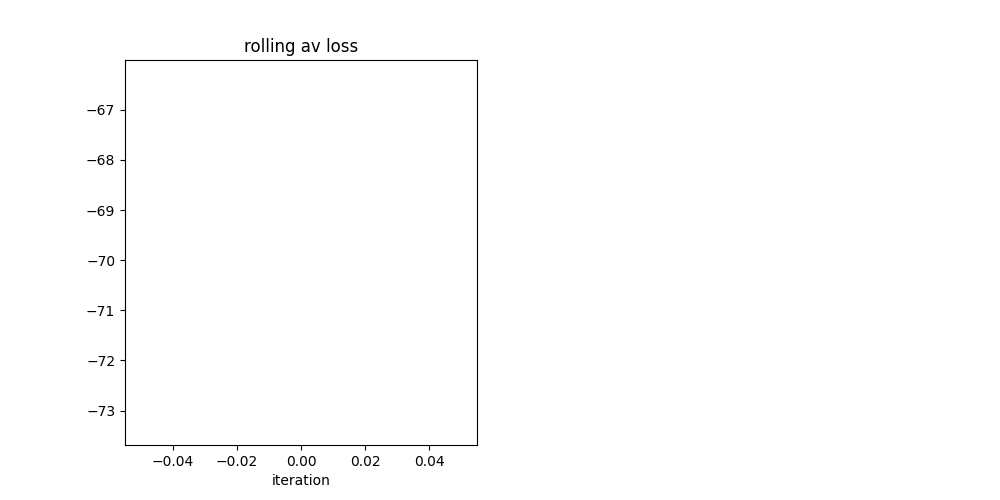
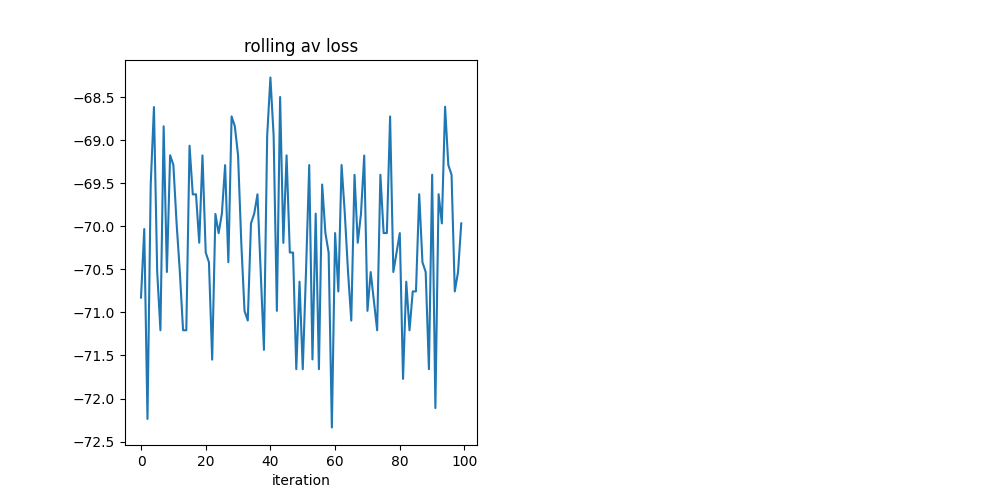
REINFORCE w Leela encodings

diff --git a/src/train_rl/utils/rl_trainers.py b/src/train_rl/utils/rl_trainers.py
@@ -18,7 +18,8 @@ from torchrl.envs.utils import step_mdp
 
 from src.models.decision_transformer.modeling_decision_transformer import DecisionTransformerModel
 from src.train_rl.utils.rl_trainer_config import RLTrainerConfig
-from src.utils import translate
+from src.utils import leela_encodings
+from src.utils.leela_constants import ACT_DIM, STATE_DIM
 
 
 class DecisionTransformerREINFORCETrainer:
@@ -164,6 +165,7 @@ class DecisionTransformerREINFORCETrainer:
 
             if self.cfg.lr_scheduler:
                 scheduler.step()
+
         self.env.engine.quit()
         self.env.stockfish_metric.engine.quit()
         self.log(logs)
@@ -188,8 +190,10 @@ class DecisionTransformerREINFORCETrainer:
         action_distros = []
         for t in count():
             if t > 0:
-                state_seq = torch.cat([data["board"][0].unsqueeze(0), data["next"]["board"]], dim=0).unsqueeze(
-                    0
+                state_seq = torch.flatten(
+                    torch.cat([data["board"][0].unsqueeze(0), data["next"]["board"]], dim=0).unsqueeze(0),
+                    start_dim=2,
+                    end_dim=-1,
                 )  # needs dtype = float32 & shape = (1, seq_len, cfg.state_dim)
                 action_seq = torch.cat([data["action"], unused_action], dim=0).unsqueeze(
                     0
@@ -199,7 +203,9 @@ class DecisionTransformerREINFORCETrainer:
                 )  # needs dtype = float32 & shape = (1, seq_len, 1)
                 timestep_seq = torch.arange(t + 1).unsqueeze(0)  # needs dtype = int64 & shape = (1,t)
             else:
-                state_seq = data["board"].unsqueeze(0)  # dtype = float32 & shape = (1, 1, cfg.state_dim)
+                state_seq = torch.flatten(
+                    data["board"].unsqueeze(0), start_dim=2, end_dim=-1
+                )  # dtype = float32 & shape = (1, 1, cfg.state_dim)
                 action_seq = unused_action.unsqueeze(0)  # dtype = float32 & shape = (1, 1, self.cfg.act_dim)
                 rtg_seq = starting_return_to_go.unsqueeze(0)  # dtype = float32 & shape = (1, 1, 1)
                 timestep_seq = torch.zeros((1, 1), dtype=torch.int64)  # dtype = int64 & shape = (1,1)
@@ -228,6 +234,7 @@ class DecisionTransformerREINFORCETrainer:
             data = torch.cat([data, _data.expand(1).contiguous()], dim=0) if t > 0 else _data.expand(1).contiguous()
 
             _data = step_mdp(_data, keep_other=True)
+
             if _data["done"]:
                 _data, curr_env_state = self.env.reset(_data)
                 break
@@ -338,8 +345,8 @@ class ChessEnv:
         seed=None,
         device="cpu",
         batch_size=None,
-        state_dim=72,
-        act_dim=4672,
+        state_dim=STATE_DIM,
+        act_dim=ACT_DIM,
         gameplay_depth=2,
         engine=None,
         stockfish_metric=None,
@@ -485,22 +492,22 @@ class ChessEnv:
             chess board object.
 
         Raises:
-            RuntimeError: an error occurs if the state dimension is not 72.
+            RuntimeError: an error occurs if the state dimension is not the Leela state dimension.
         """
         if tensordict is None or tensordict.is_empty():
             # if no tensordict is passed, we generate a single set of hyperparameters
             # Otherwise, we assume that the input tensordict contains all the relevant
             # parameters to get started.
             tensordict = self.gen_params(device=self.device, batch_size=batch_size)
-        if self.state_dim == 72:
-            board = translate.board_to_72tensor(chess.Board())
+        if self.state_dim == STATE_DIM:
+            board = leela_encodings.board_to_tensor(chess.Board(), us_them=(True, False))
         else:
-            raise RuntimeError("state_dim must be 72")
+            raise RuntimeError(f"state_dim must be {STATE_DIM}")
 
         return (
             TensorDict(
                 {
-                    "board": board,  # dtype = float32 & shape = (72,)
+                    "board": board,  # dtype = float32 & shape = (STATE_DIM,)
                     "params": tensordict["params"],
                     "done": torch.tensor([0], dtype=torch.bool),
                 },
@@ -531,16 +538,19 @@ class ChessEnv:
         board_tensor, move = (
             tensordict["board"],
             tensordict["action"],
-        )  # dtype = float32 & shape = (72,), (self.cfg.act_dim,)
+        )  # dtype = float32 & shape = (self.cfg.state_dim,), (self.cfg.act_dim,)
         env_gameplay_depth = tensordict["params", "env_gameplay_depth"]
 
-        proposed_move = translate.decode_move(torch.argmax(move).item(), curr_env_state)
-        # from square is unoccupied - not even picking up a piece: should be punished severely
-        if proposed_move is None:
+        proposed_move = leela_encodings.decode_move(
+            torch.argmax(move).item(), us_them=(True, False), board=curr_env_state
+        )
+        # from square is not occupied by a white piece: should be punished severely
+        proposed_from_piece = curr_env_state.piece_at(proposed_move.from_square)
+        if proposed_from_piece is None or proposed_from_piece.color != chess.WHITE:
             next_board_tensor = board_tensor
             reward_tensor = torch.tensor([10], dtype=torch.float32)
             done = torch.tensor([1], dtype=torch.bool)
-        # proposing a move with an actual piece, but not a legal move: should be punished less severely
+        # proposing a move with a white piece, but not a legal move: should be punished less severely
         elif proposed_move not in list(curr_env_state.legal_moves):
             next_board_tensor = board_tensor
             reward_tensor = torch.tensor([7], dtype=torch.float32)
@@ -555,7 +565,7 @@ class ChessEnv:
                 done = torch.tensor([0], dtype=torch.bool)
                 next_move = self.engine.play(curr_env_state, chess.engine.Limit(depth=env_gameplay_depth)).move
                 curr_env_state.push(next_move)
-            next_board_tensor = translate.board_to_72tensor(curr_env_state.copy()).float()
+            next_board_tensor = leela_encodings.board_to_tensor(board=curr_env_state.copy(), us_them=(True, False))
             reward_tensor = torch.tensor(
                 [
                     1

diff --git a/src/train_rl/train_rl.py b/src/train_rl/train_rl.py
@@ -34,7 +34,7 @@ Note:
 Typical usage example:
 
 ```bash
->>> python src.train_rl.train_rl.py --training True --no-debug --n-epochs 10000 --lr 1e-4
+>>> python -m src.train_rl.train_rl --training --no-debug --n-epochs 10000 --lr 1e-4
 ```
 """
 import argparse
@@ -46,6 +46,7 @@ from src.metric.stockfish import StockfishMetric
 from src.models.decision_transformer import DecisionTransformerConfig, DecisionTransformerModel
 from src.train_rl.utils.rl_trainer_config import RLTrainerConfig
 from src.train_rl.utils.rl_trainers import DecisionTransformerREINFORCETrainer
+from src.utils.leela_constants import ACT_DIM, STATE_DIM
 
 parser = argparse.ArgumentParser("train-rl")
 # Meta
@@ -72,9 +73,6 @@ parser.add_argument("--checkpointing-steps-ratio", type=float, default=0.1)
 parser.add_argument("--output-root", type=str, default=os.getcwd())
 parser.add_argument("--temperature", type=float, default=1.0)
 parser.add_argument("--lr-scheduler", action=argparse.BooleanOptionalAction, default=False)
-# Model
-parser.add_argument("--state-dim", type=int, default=72)
-parser.add_argument("--act-dim", type=int, default=4672)
 
 args = parser.parse_args()
 
@@ -103,8 +101,8 @@ if args.use_stockfish_eval:
 
 try:  # To be sure to close stockfish engine if an error occurs
     conf = DecisionTransformerConfig(
-        state_dim=args.state_dim,
-        act_dim=args.act_dim,
+        state_dim=STATE_DIM,
+        act_dim=ACT_DIM,
         n_layers=args.layers,
         n_heads=args.heads,
         hidden_size=64 * args.heads,
@@ -131,8 +129,8 @@ try:  # To be sure to close stockfish engine if an error occurs
         stockfish_gameplay_depth=args.stockfish_gameplay_depth,
         resume_from_checkpoint=args.resume_from_checkpoint,
         checkpoint_path=args.checkpoint_path,
-        state_dim=args.state_dim,
-        act_dim=args.act_dim,
+        state_dim=STATE_DIM,
+        act_dim=ACT_DIM,
         temperature=args.temperature,
         lr_scheduler=args.lr_scheduler,
     )
@@ -148,5 +146,4 @@ try:  # To be sure to close stockfish engine if an error occurs
         evaluation = trainer.evaluate()
         print(evaluation)
 finally:
-    if stockfish_metric is not None:
-        stockfish_metric.engine.quit()
+    print("Complete")

diff --git a/src/utils/leela_encodings.py b/src/utils/leela_encodings.py
@@ -28,6 +28,7 @@ def board_to_tensor13x8x8(
     Args:
         board: The chess.Board object to convert.
         us_them: A tuple of booleans indicating whether the board is from the perspective of the white player.
+            (True, False) would represent a game from the perspective of the white player and vice versa.
         repetition: The number of times the position must be repeated for the 13th plane to be 1.
 
     Returns:
@@ -81,6 +82,7 @@ def board_to_tensor(
     Args:
         board: The chess.Board object to convert.
         us_them: A tuple of booleans indicating whether the board is from the perspective of the white player.
+            (True, False) would represent a game from the perspective of the white player and vice versa.
         num_past_states: The number of past states to include in the tensor. Not implemented.
         flip: Whether to flip the board if the black player is to move.
 
@@ -134,6 +136,7 @@ def encode_move(
     Args:
         move: The chess.Move object to convert.
         us_them: A tuple of booleans indicating whether the move is from the perspective of the white player.
+            (True, False) would represent a game from the perspective of the white player and vice versa.
 
     Returns:
         An integer index in the 1858-dimensional action space.
@@ -176,6 +179,7 @@ def decode_move(
     Args:
         index: The index to convert.
         us_them: A tuple of booleans indicating whether the move is from the perspective of the white player.
+            (True, False) would represent a game from the perspective of the white player and vice versa.
         board: The current chess.Board object from which the move is being made.
 
     Returns:

diff --git a/tests/integration/conftest.py b/tests/integration/conftest.py
@@ -14,6 +14,7 @@ import src.utils.translate as translate
 from src.models.decision_transformer import DecisionTransformerConfig, DecisionTransformerModel
 from src.train_rl.utils.rl_trainer_config import RLTrainerConfig
 from src.utils.dataset import OnePlayerChessDataset, TwoPlayersChessDataset
+from src.utils.leela_constants import ACT_DIM, STATE_DIM
 
 DEVICE = torch.device("cuda" if torch.cuda.is_available() else "cpu")
 DIRECTORY = pathlib.Path(__file__).parent.absolute()
@@ -136,7 +137,7 @@ def RL_deprec_encoding_model():
 
 
 @pytest.fixture(scope="module")
-def RL_deprec_encoding_trainer_cfg():
+def RL_trainer_cfg():
     cwd = os.getcwd()
     yield RLTrainerConfig(
         output_dir=f"{cwd}\\weights\\test_training",
@@ -157,8 +158,20 @@ def RL_deprec_encoding_trainer_cfg():
         stockfish_gameplay_depth=2,
         resume_from_checkpoint=False,
         checkpoint_path=None,
-        state_dim=72,
-        act_dim=4672,
+        state_dim=STATE_DIM,
+        act_dim=ACT_DIM,
         temperature=1.0,
         lr_scheduler=False,
     )
+
+
+@pytest.fixture(scope="module")
+def RL_leela_encoding_model():
+    conf = DecisionTransformerConfig(
+        state_dim=STATE_DIM,
+        act_dim=ACT_DIM,
+        n_layers=6,
+        n_heads=4,
+        hidden_size=64 * 4,
+    )
+    yield DecisionTransformerModel(conf)

diff --git a/tests/integration/train/test_rl_trainers.py b/tests/integration/train/test_rl_trainers.py
@@ -15,13 +15,11 @@ torch.set_default_device(DEVICE)
 
 
 class TestDecisionTransformerREINFORCETrainer:
-    def test_training_deprec_encodings(self, RL_deprec_encoding_model, RL_deprec_encoding_trainer_cfg):
+    def test_training(self, RL_leela_encoding_model, RL_trainer_cfg):
         stockfish_metric = StockfishMetric()
-        RL_deprec_encoding_trainer_cfg.stockfish_metric = stockfish_metric
+        RL_trainer_cfg.stockfish_metric = stockfish_metric
 
-        trainer = DecisionTransformerREINFORCETrainer(
-            cfg=RL_deprec_encoding_trainer_cfg, model=RL_deprec_encoding_model, device=DEVICE
-        )
+        trainer = DecisionTransformerREINFORCETrainer(cfg=RL_trainer_cfg, model=RL_leela_encoding_model, device=DEVICE)
         trainer.train()
 
         cwd = os.getcwd()
